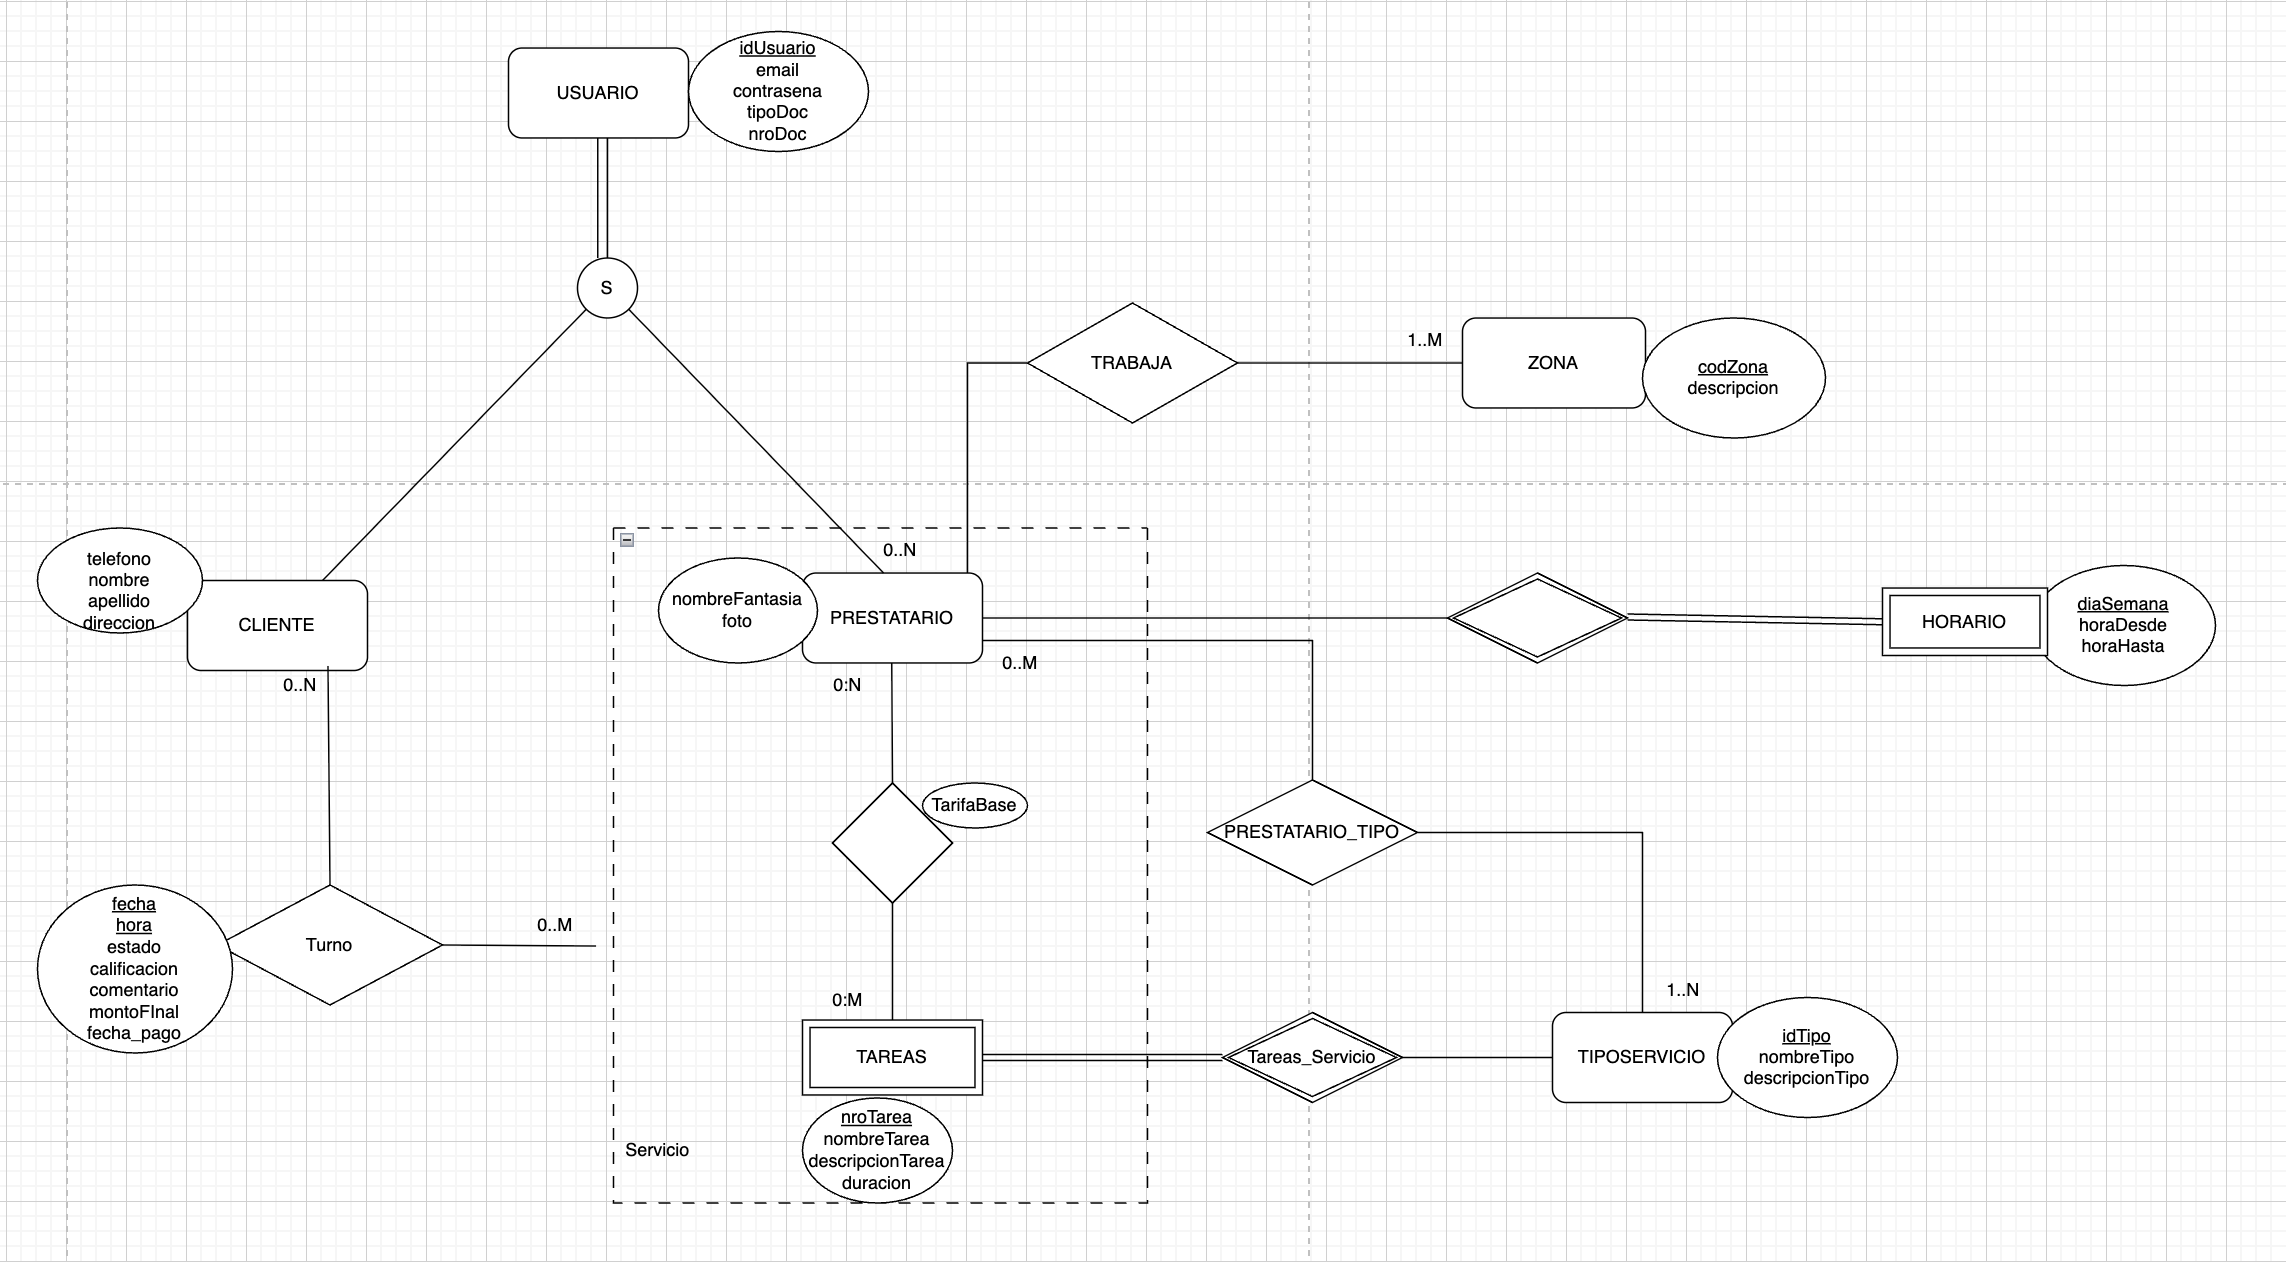
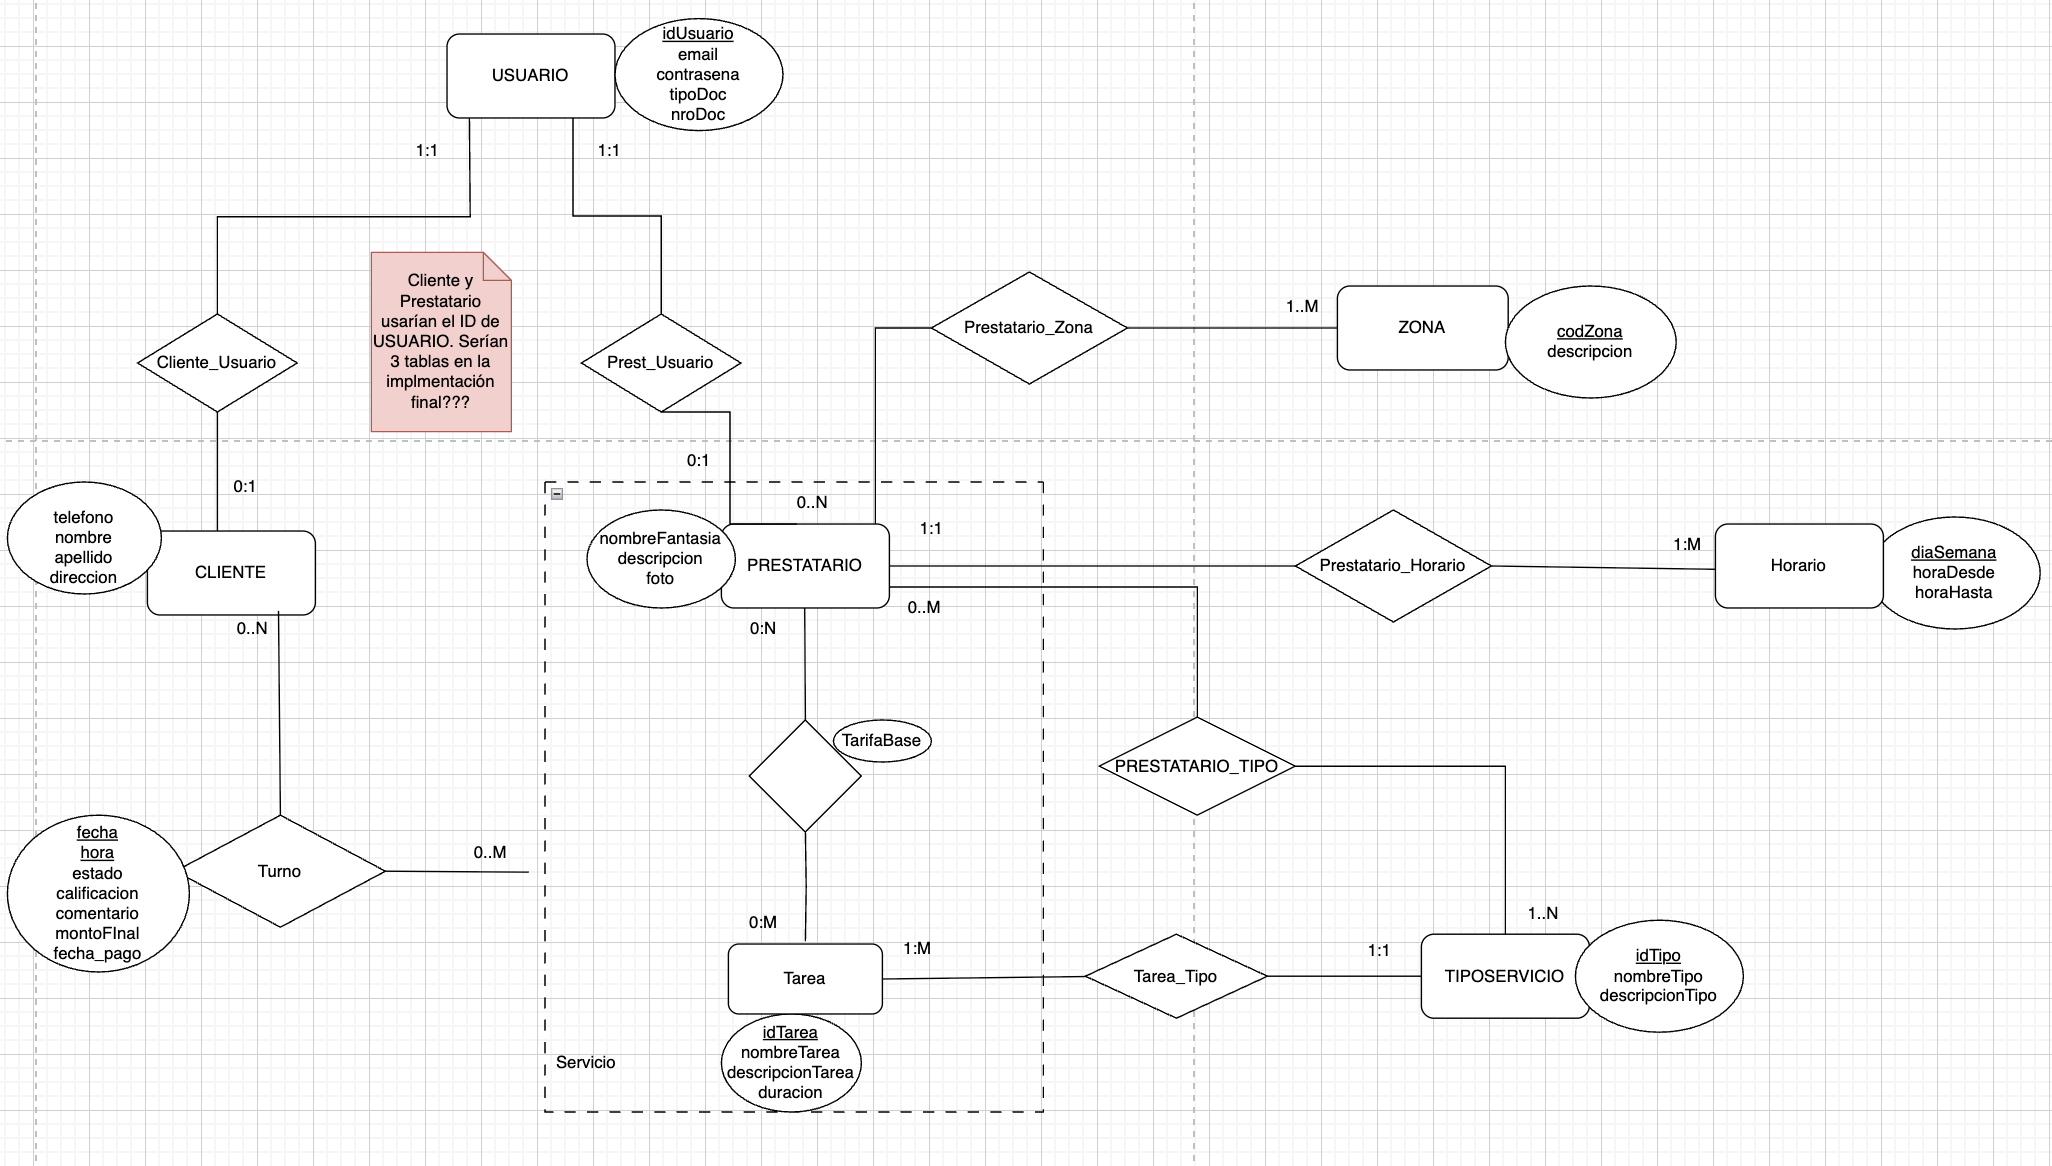
Consulta Meca, cambios Cliente y Prestatario DER

diff --git a/backend/dist/app.js b/backend/dist/app.js
@@ -1,0 +1,91 @@
+import express from 'express';
+import { Usuario } from './usuario.js';
+const app = express();
+app.use(express.json());
+const usuarios = [
+    new Usuario('a02b91bc-3769-4221-beb1-d7a3aeba7dad', 'agusidana04@gmail.com', '123489sdfafgdfjasdhjahsd', 'DNI', 45949176, 'Urquiza 7884', 3413946996, 'Agustin', 'Dana'),
+];
+function sanitizeUsuarioInput(req, res, next) {
+    req.body.sanitizedInput = {
+        email: req.body.email,
+        contrasena: req.body.contrasena,
+        tipoDoc: req.body.tipoDoc,
+        numDoc: req.body.numDoc,
+        direccion: req.body.direccion,
+        telefono: req.body.telefono,
+        nombre: req.body.nombre,
+        apellido: req.body.apellido,
+        fechaNacimiento: req.body.fechaNacimiento,
+        nombreFantasia: req.body.nombreFantasia,
+        foto: req.body.foto,
+    };
+    Object.keys(req.body.sanitizedInput).forEach((key) => {
+        if (req.body.sanitizedInput[key] === undefined) {
+            delete req.body.sanitizedInput[key];
+        }
+    });
+    next();
+}
+//...........................................GET...........................................
+app.get('/api/usuarios', (req, res) => {
+    res.json({ data: usuarios });
+});
+app.get('/api/usuarios/:id', (req, res) => {
+    const usuario = usuarios.find((usuario) => usuario.id === req.params.id);
+    if (!usuario) {
+        res.status(404).send({ message: 'Usuario no encontrado' });
+        return;
+    }
+    res.json({ data: usuario });
+});
+//...........................................POST...........................................
+app.post('/api/usuarios', sanitizeUsuarioInput, (req, res) => {
+    const input = req.body.sanitizedInput;
+    const usuario = new Usuario(input.id, input.email, input.contrasena, input.tipoDoc, input.numDoc, input.direccion, input.telefono, input.nombre, input.apellido, input.fechaNacimiento, input.nombreFantasia, input.descripcion);
+    usuarios.push(usuario);
+    res.status(201).send({
+        message: 'Usuario creado exitosamente',
+        data: usuario,
+    });
+});
+//...........................................PUT...........................................
+app.put('/api/usuarios/:id', sanitizeUsuarioInput, (req, res) => {
+    const usurioIdx = usuarios.findIndex((usuario) => usuario.id === req.params.id);
+    if (usurioIdx === -1) {
+        res.status(404).send({ message: 'Usuario no encontrado' });
+        return;
+    }
+    usuarios[usurioIdx] = { ...usuarios[usurioIdx], ...req.body.sanitizedInput };
+    res.status(200).send({
+        message: 'Usuario actualizado exitosamente',
+        data: usuarios[usurioIdx],
+    });
+});
+app.patch('/api/usuarios/:id', sanitizeUsuarioInput, (req, res) => {
+    const usuarioId = usuarios.findIndex((usuario) => usuario.id === req.params.id);
+    if (usuarioId === -1) {
+        res.status(404).send({ message: 'Usuario no encontrado' });
+        return;
+    }
+    Object.assign(usuarios[usuarioId], req.body.sanitizedInput);
+    res.status(200).send({
+        message: 'Usuario modificado con écito',
+        data: usuarios[usuarioId],
+    });
+    return;
+});
+app.delete('/api/usuarios/:id', (req, res) => {
+    const usuarioId = usuarios.findIndex((usuario) => usuario.id === req.params.id);
+    if (usuarioId === -1) {
+        res.status(404).send({ message: 'Usuario no encontrado' });
+        return;
+    }
+    else {
+        usuarios.splice(usuarioId, 1);
+        res.status(200).send({ message: 'Usuario eliminado con éxito' });
+    }
+});
+app.listen(3000, () => {
+    console.log('Server runnning on http://localhost:3000/');
+});
+//# sourceMappingURL=app.js.map

diff --git a/backend/src/usuario.ts b/backend/src/usuario.ts
@@ -1,7 +1,12 @@
 import crypto from 'crypto';
 
-//Nos convendría
+//?Convendría hacer dos clases más, una de Cliente y otra de Prestatario que hereden de Usuario
+//?De esta manera, si un usuario tiene
+
+//* Después de la consulta, quedamos en que Cliente y Prestatario se iban a relacionar con Usuario.
 export class Usuario {
+  //*Si un usuario tiene telefono,nombre,apellido y fechaNacimiento, entonces es Cliente
+  //*Si un usuario tiene nombreFantasia y foto entonces es Prestatario
   constructor(
     public id = crypto.randomUUID(),
     public email: string,
@@ -13,9 +18,12 @@ export class Usuario {
     public telefono?: number,
     public nombre?: string,
     public apellido?: string,
-    //Atributos Prestatario
     public fechaNacimiento?: Date,
+    //Atributos Prestatario
     public nombreFantasia?: string,
-    public foto?: string //aca va url o string y despues cuando hay que mostrarlo se cambia
-  ) {}
+    public descripcion?: string
+  ) //! Por el momento dejamos de lado el tema de la foto. Por lo que hablamos
+  //! Generalmente se guarda en una carpeta en nuestro host y después guardamos el string de la ruta
+  //public foto?: string
+  {}
 }

diff --git a/backend/dist/usuario.js b/backend/dist/usuario.js
@@ -1,0 +1,27 @@
+import crypto from 'crypto';
+//?Convendría hacer dos clases más, una de Cliente y otra de Prestatario que hereden de Usuario
+//?De esta manera, si un usuario tiene
+//* Después de la consulta, quedamos en que Cliente y Prestatario se iban a relacionar con Usuario.
+export class Usuario {
+    //*Si un usuario tiene telefono,nombre,apellido y fechaNacimiento, entonces es Cliente
+    //*Si un usuario tiene nombreFantasia y foto entonces es Prestatario
+    constructor(id = crypto.randomUUID(), email, contrasena, tipoDoc, numDoc, direccion, 
+    //Atributos Cliente
+    telefono, nombre, apellido, fechaNacimiento, 
+    //Atributos Prestatario
+    nombreFantasia, descripcion) {
+        this.id = id;
+        this.email = email;
+        this.contrasena = contrasena;
+        this.tipoDoc = tipoDoc;
+        this.numDoc = numDoc;
+        this.direccion = direccion;
+        this.telefono = telefono;
+        this.nombre = nombre;
+        this.apellido = apellido;
+        this.fechaNacimiento = fechaNacimiento;
+        this.nombreFantasia = nombreFantasia;
+        this.descripcion = descripcion;
+    }
+}
+//# sourceMappingURL=usuario.js.map

diff --git a/backend/src/app.ts b/backend/src/app.ts
@@ -67,7 +67,7 @@ app.post('/api/usuarios', sanitizeUsuarioInput, (req, res) => {
     input.apellido,
     input.fechaNacimiento,
     input.nombreFantasia,
-    input.foto
+    input.descripcion
   );
   usuarios.push(usuario);
   res.status(201).send({
@@ -85,12 +85,10 @@ app.put('/api/usuarios/:id', sanitizeUsuarioInput, (req, res) => {
     return;
   }
   usuarios[usurioIdx] = { ...usuarios[usurioIdx], ...req.body.sanitizedInput };
-  res
-    .status(200)
-    .send({
-      message: 'Usuario actualizado exitosamente',
-      data: usuarios[usurioIdx],
-    });
+  res.status(200).send({
+    message: 'Usuario actualizado exitosamente',
+    data: usuarios[usurioIdx],
+  });
 });
 
 app.patch('/api/usuarios/:id', sanitizeUsuarioInput, (req, res) => {
@@ -105,12 +103,10 @@ app.patch('/api/usuarios/:id', sanitizeUsuarioInput, (req, res) => {
 
   Object.assign(usuarios[usuarioId], req.body.sanitizedInput);
 
-  res
-    .status(200)
-    .send({
-      message: 'Usuario modificado con écito',
-      data: usuarios[usuarioId],
-    });
+  res.status(200).send({
+    message: 'Usuario modificado con écito',
+    data: usuarios[usuarioId],
+  });
   return;
 });
 

diff --git a/proposal.md b/proposal.md
@@ -32,15 +32,14 @@ Regularidad:
 |Req|Detalle|
 |:-|:-|
 |CRUD simple|1. CRUD Usuario <br>2. CRUD TipoServicio <br>3. CRUD Turno <br>4. CRUD Zona|
-|CRUD dependiente|1. CRUD Agenda depende Turno y Horarios <br>2. CRUD Prestatario depende de Tipo de Servicios  <br>
+|CRUD dependiente|1.CRUD Horarios depende de Prestatario <br>2. CRUD Prestatario depende de Tipo de Servicios y de Horarios <br>
 |Listado<br>+<br>detalle| 1. Listado de prestatario filtrado por tipo de servicios, tarifa, puntuacion y horarios <br> 2. Historial de reservas realizadas para volver a contactar a algun prestatario|
-|CUU/Epic|1. Realizar una reseña de una reserva con un Prestatario <br>2. Realizar reserva de un servicio con un prestatario|
-
+|CUU/Epic|1. Realizar reserva de un servicio con un prestatario <br> 2. Realizar una reseña de una reserva con un Prestatario|
 Adicionales para Aprobación
 |Req|Detalle|
 |:-|:-|
 |CRUD simple|1. CRUD Usuario <br>2. CRUD TipoServicio <br>3. CRUD Turno <br>4.CRUD Zona <br> 5. CRUD Servicio |
-|CRUD dependiente|1. CRUD Agenda depende Turno y Horarios <br>2. CRUD Prestatario depende de Tipo de Servicios <br> 3. CRUD Turno depende Servicio <br> 4. CRUD Reseña depende de Turno <br> 5. CRUD Tarea depende de TipoServicio <br>  6. CRUD Horario depende de Prestatario 
+|CRUD dependiente|1. CRUD Agenda depende Turno y Horarios <br>2. CRUD Prestatario depende de Tipo de Servicios <br> 3. CRUD Turno depende Servicio <br> 4. CRUD Reseña depende de Turno <br> 5. CRUD Tarea depende de TipoServicio <br> 6. CRUD Horario depende de Prestatario
 |Listado<br>+<br>detalle| 1. Listado de prestatario filtrado por tipo de servicios, tarifa, puntuacion y horarios <br> 2. Historial de reservas realizadas para volver a contactar a algun prestatario|
 |CUU/Epic|1. Mandar mail de recordatorio de reserva tanto al prestatario como al que lo contrata<br> 2. Implementar pagos online (stripe o mercado pago) <br> 3. Implementar moderación de resenas por IA.|
 
